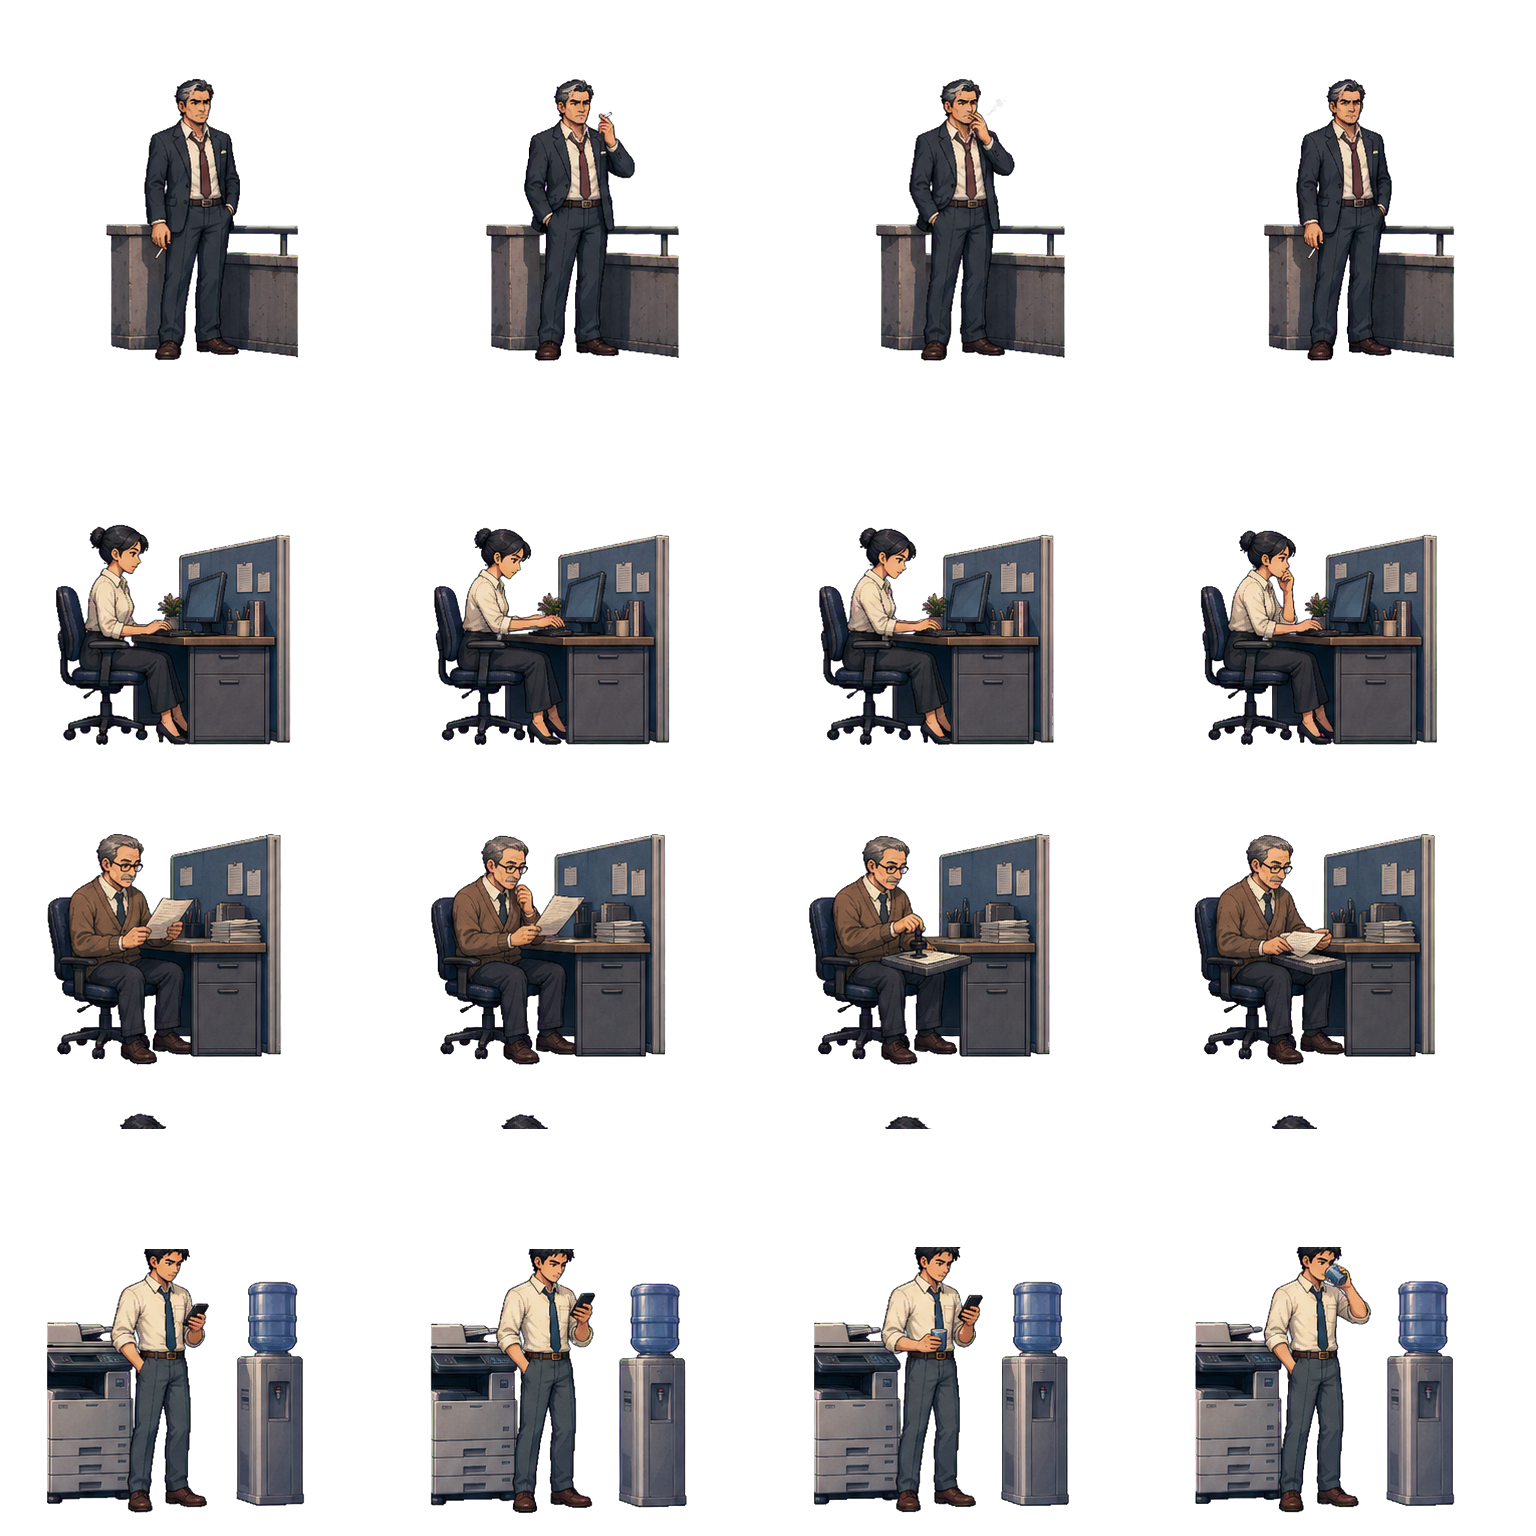
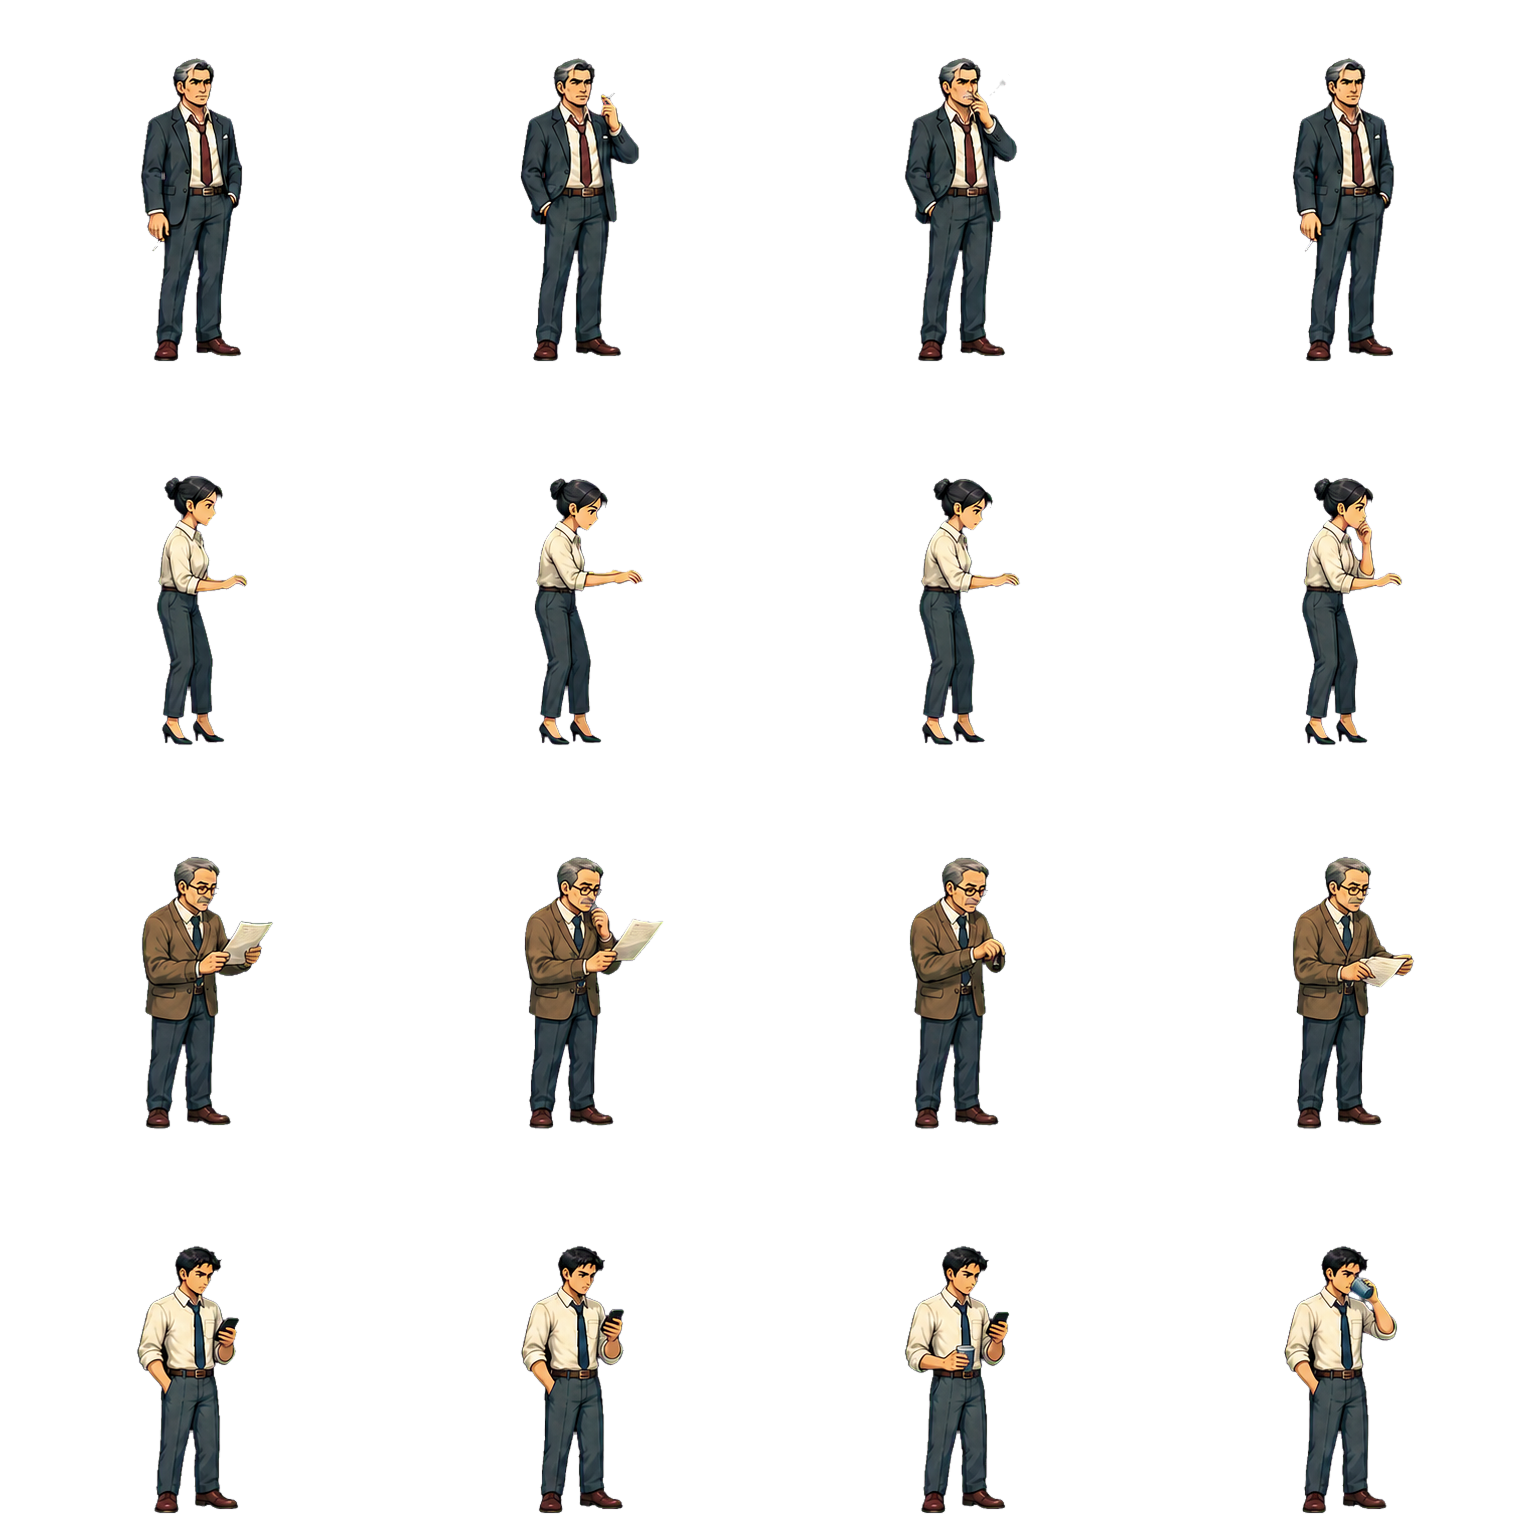
Fix Scene 2 occupant compositing

diff --git a/tools/build_scene2_foreground.py b/tools/build_scene2_foreground.py
@@ -1,0 +1,40 @@
+"""Extract the office architecture that must render in front of Scene 2 actors."""
+
+from pathlib import Path
+
+from PIL import Image, ImageDraw
+
+
+ROOT = Path(__file__).resolve().parents[1]
+SOURCE = ROOT / "assets" / "art" / "Scene 2" / "office-target-building.png"
+OUTPUT = ROOT / "assets" / "art" / "Scene 2" / "office-foreground-overlay.png"
+
+
+def main() -> None:
+    source = Image.open(SOURCE).convert("RGBA")
+    mask = Image.new("L", source.size, 0)
+    draw = ImageDraw.Draw(mask)
+
+    # Window casing and mullions keep every worker visibly behind the glazing.
+    draw.rectangle((27, 187, 838, 216), fill=255)
+    draw.rectangle((27, 485, 838, 516), fill=255)
+    for left, right in ((27, 53), (334, 359), (625, 651), (812, 839)):
+        draw.rectangle((left, 187, right, 516), fill=255)
+
+    # Front faces of the two occupied desks. Hands remain visible above y=402.
+    draw.polygon(((105, 402), (321, 402), (321, 490), (105, 490)), fill=255)
+    draw.polygon(((446, 404), (596, 404), (596, 490), (446, 490)), fill=255)
+
+    # Balcony cap, parapet and railing hide the target's lower body correctly.
+    draw.polygon(((966, 404), (1181, 420), (1181, 545), (966, 536)), fill=255)
+    draw.rectangle((965, 398, 1183, 433), fill=255)
+
+    overlay = Image.new("RGBA", source.size)
+    overlay.paste(source, mask=mask)
+    OUTPUT.parent.mkdir(parents=True, exist_ok=True)
+    overlay.save(OUTPUT)
+    print(f"Wrote {OUTPUT}")
+
+
+if __name__ == "__main__":
+    main()

diff --git a/tools/normalize_sprite_sheet.py b/tools/normalize_sprite_sheet.py
@@ -92,6 +92,7 @@ def normalize(
     target_foot_y: int,
     target_height: int | None,
     x_bounds: list[int] | None,
+    y_bounds: list[int] | None,
     largest_component: bool,
 ) -> None:
     sheet = Image.open(source).convert("RGBA")
@@ -99,7 +100,10 @@ def normalize(
         x_bounds = [round(index * sheet.width / cols) for index in range(cols + 1)]
     if len(x_bounds) != cols + 1 or x_bounds[0] != 0 or x_bounds[-1] != sheet.width:
         raise ValueError("x-bounds must contain cols + 1 values spanning the sheet width")
-    y_bounds = [round(index * sheet.height / rows) for index in range(rows + 1)]
+    if y_bounds is None:
+        y_bounds = [round(index * sheet.height / rows) for index in range(rows + 1)]
+    if len(y_bounds) != rows + 1 or y_bounds[0] != 0 or y_bounds[-1] != sheet.height:
+        raise ValueError("y-bounds must contain rows + 1 values spanning the sheet height")
     target = Image.new("RGBA", (target_cell[0] * cols, target_cell[1] * rows))
 
     for row in range(rows):
@@ -145,6 +149,10 @@ def main() -> None:
         help="Comma-separated source column boundaries for uneven generated strips",
     )
     parser.add_argument(
+        "--y-bounds",
+        help="Comma-separated source row boundaries for uneven generated sheets",
+    )
+    parser.add_argument(
         "--largest-component",
         action="store_true",
         help="Discard disconnected spill from neighboring generated frames",
@@ -152,6 +160,9 @@ def main() -> None:
     args = parser.parse_args()
     parsed_x_bounds = (
         [int(value) for value in args.x_bounds.split(",")] if args.x_bounds else None
+    )
+    parsed_y_bounds = (
+        [int(value) for value in args.y_bounds.split(",")] if args.y_bounds else None
     )
     normalize(
         args.source,
@@ -163,6 +174,7 @@ def main() -> None:
         args.foot_y,
         args.target_height,
         parsed_x_bounds,
+        parsed_y_bounds,
         args.largest_component,
     )
 